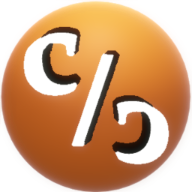
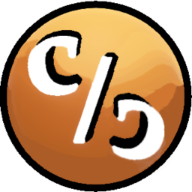
trip update step 1

diff --git a/main.css b/main.css
@@ -205,7 +205,7 @@ svg {
 	stroke-width: 3px;
 	stroke-linejoin: round;
 	height: 100%;
-	padding: 3px;
+	padding: 1px;
 	animation: logo 10s linear infinite;
 }
 
@@ -474,6 +474,7 @@ nav a:hover {
 
 .projects,
 .concepts,
+.trip,
 .speakers,
 .about {
 	margin-top: 15vh;
@@ -913,7 +914,6 @@ a.dry_towel {
 .trip {
 	display: flex;
 	flex-direction: column;
-	margin: 14vh 6rem 0;
 	line-height: 1.5;
 	font-size: clamp(12px, 1.4vh, 16px);
 }
@@ -926,17 +926,18 @@ a.dry_towel {
 
 .trip_box {
 	display: flex;
-	inset: 0 auto 30vh 5rem;
-	/* margin-top: 14vh;
-	margin-left: 5rem;
-	margin-bottom: 18vh; */
-	z-index: 1;
+	margin: 15vh 0;
+	padding: 20px;
+	width: 100%;
+justify-content: center;
+	/* border: 2px solid white; */
 }
 
 .trip_box p {
-	padding: 0 1rem;
+	display: block;
+	padding: 5% 20px;
 	align-items: center;
-	margin: auto 0;
+	width: 40%;
 }
 
 .trip_box a:link {
@@ -958,6 +959,13 @@ a.dry_towel {
 	bottom: -1px;
 	cursor: pointer;
 	z-index: 0;
+}
+
+.imgBlock h4 {
+	color: var(--background1);
+	padding: 1em;
+	inset: auto;
+	margin: auto;
 }
 
 .video {
@@ -987,15 +995,6 @@ a.dry_towel {
 	background-position: center;
 }
 
-.imgBlock {
-	display: flex;
-	flex-direction: column;
-	justify-content: space-between;
-	width: 65%;
-	float: right;
-	margin-right: -6%;
-}
-
 .trip a:active {
 	transform: translateY(4px);
 	box-shadow: -4px -4px 5px rgba(0, 0, 0, 0.5),
@@ -1003,8 +1002,12 @@ a.dry_towel {
 		0px 8px 25px 5px rgba(27, 1, 1, 0.65) inset;
 }
 
-.outline_shadow {
-	filter: drop-shadow(12px 12px 2px black);
+.imgBlock {
+	display: flex;
+	flex-direction: column;
+	margin: 20px;
+	width: 50%;
+	float: right;
 }
 
 .pic1 {
@@ -1012,7 +1015,7 @@ a.dry_towel {
 	height: 20rem;
 	aspect-ratio: 1;
 	float: left;
-	margin-right: 20px;
+	margin: 20px auto;
 }
 
 .pic2 {
@@ -1020,8 +1023,6 @@ a.dry_towel {
 	height: 15rem;
 	max-width: 400px;
 	position: relative;
-	margin-left: 5rem;
-	margin-top: -5rem;
 	rotate: 12deg;
 	aspect-ratio: 3/2;
 }
@@ -1032,14 +1033,24 @@ a.dry_towel {
 	height: 15rem;
 	max-width: 340px;
 	min-width: 262px;
+	float: left;
 	width: 60%;
-	margin-top: -2rem;
-	margin-bottom: 2.5vh;
 	rotate: -5deg;
 	z-index: -1;
 }
 
-.pic3_box,
+.pic3_box {
+	display: flex;
+	flex-direction: column;
+	justify-content: center;
+	width: 90%;
+}
+
+.pic3_box p {
+padding: 20px 0;
+width: 100%;
+}
+
 .pic4_box {
 	display: flex;
 	flex-direction: column;
@@ -1096,14 +1107,12 @@ a.dry_towel {
 }
 
 .pic4 {
-	position: absolute;
 	background-image: url(assets/geokey.jpg);
-	height: 17rem;
-	width: clamp(270px, 2vw, 340px);
-	margin: -5rem -9rem;
 	rotate: -5deg;
-	float: right;
-	z-index: -1;
+	height: 20rem;
+	aspect-ratio: 1;
+	float: left;
+	margin: 20px auto;
 }
 
 .tagline {

diff --git a/fieldtrips.html b/fieldtrips.html
@@ -9,6 +9,7 @@
 	<link href="https://cdnjs.cloudflare.com/ajax/libs/font-awesome/5.13.0/css/all.min.css" rel="stylesheet">
 	<title>C5 Fieldtrips</title>
 </head>
+
 <body>
 	<header>
 		<div class="logo_head">
@@ -61,6 +62,7 @@
 			<p class="tagline"><span id="tagline_first">We had fun visiting various locations around Omaha.</span> Some
 				destinations were for educational purposes, all destinations involved fun.</p>
 		</section>
+
 		<div class="trip_box">
 			<div class="inset_shadow pic1"></div>
 			<p>Cohort 5 had the opportunity to visit several places in the month of June. We took a tour of the AIM
@@ -74,15 +76,12 @@
 			</p>
 		</div>
 		<div class="trip_box">
-			<div class="outline_shadow">
-				<div class="pic_outline" style="rotate: 90deg; top: -20%; margin-left: 20%; scale: .75;"></div>
-			</div>
 			<div>
 				<div class="imgBlock">
-					<div class="inset_shadow pic2"> </div>
+					<div class=" inset_shadow pic2"> </div>
 					<a href="https://www.humangenerosity.org/survivalgamekiewit/" target="_blank"
 						rel="noopener noreferrer" class="inset_shadow pic2a" alt="survival game"></a>
-					<p style="font-weight: 500;">We got the high score for the day!</p>
+					<h4>We got the high score for the day!</h4>
 				</div>
 				<p>We visited the
 					<a href="https://kiewitluminarium.org/" target="_blank" rel="noopener noreferrer">Kiewit
@@ -92,11 +91,9 @@
 					than 150 exhibits present. One of our favorites was the <button id="vid">teapot
 						illusion.</button>
 				</p>
-
 			</div>
 		</div>
 		<video class="video vid" autoplay muted controls src="assets/teapot.mp4" type="video/mp4">
-
 			Your browser does not support the video tag.
 			Your browser does not support HTML5 video.
 		</video>
@@ -129,7 +126,7 @@
 		</div>
 		<div class="trip_box">
 			<div class="inset_shadow pic4"></div>
-			<p style="position: absolute; left: 50%;"><a href="https://geokeyaccess.com/" target="_blank"
+			<p ><a href="https://geokeyaccess.com/" target="_blank"
 					rel="noopener noreferrer">GEOKEY </a>was the first place the students saw VSCode being used in the
 				wild. This was so wonderful to
 				see.

diff --git a/main.js b/main.js
@@ -35,16 +35,11 @@ if (menu_x) {
 // retractVideo to restrict eventlistener to just video container 
 //and teapot illusion link
 
+
+
 const vid = document.querySelector("#vid");
 const video = document.querySelector(".video")
 let play = false;
-
-if (vid) {
-	vid.addEventListener('click', playVideo);
-}
-if (video) {
-	video.addEventListener('click', retractVideo)
-};
 
 retractVideo = () => {
 	video.style.transform = "translate(-50%,-200%)";
@@ -60,6 +55,15 @@ playVideo = () => {
 		retractVideo()
 	}
 }
+
+if (vid) {
+	vid.addEventListener('click', playVideo);
+}
+if (video) {
+	video.addEventListener('click', retractVideo)
+};
+
+
 
 const bubble = document.querySelectorAll(".bubble");
 const mbubble = document.querySelectorAll(".mbubble");
